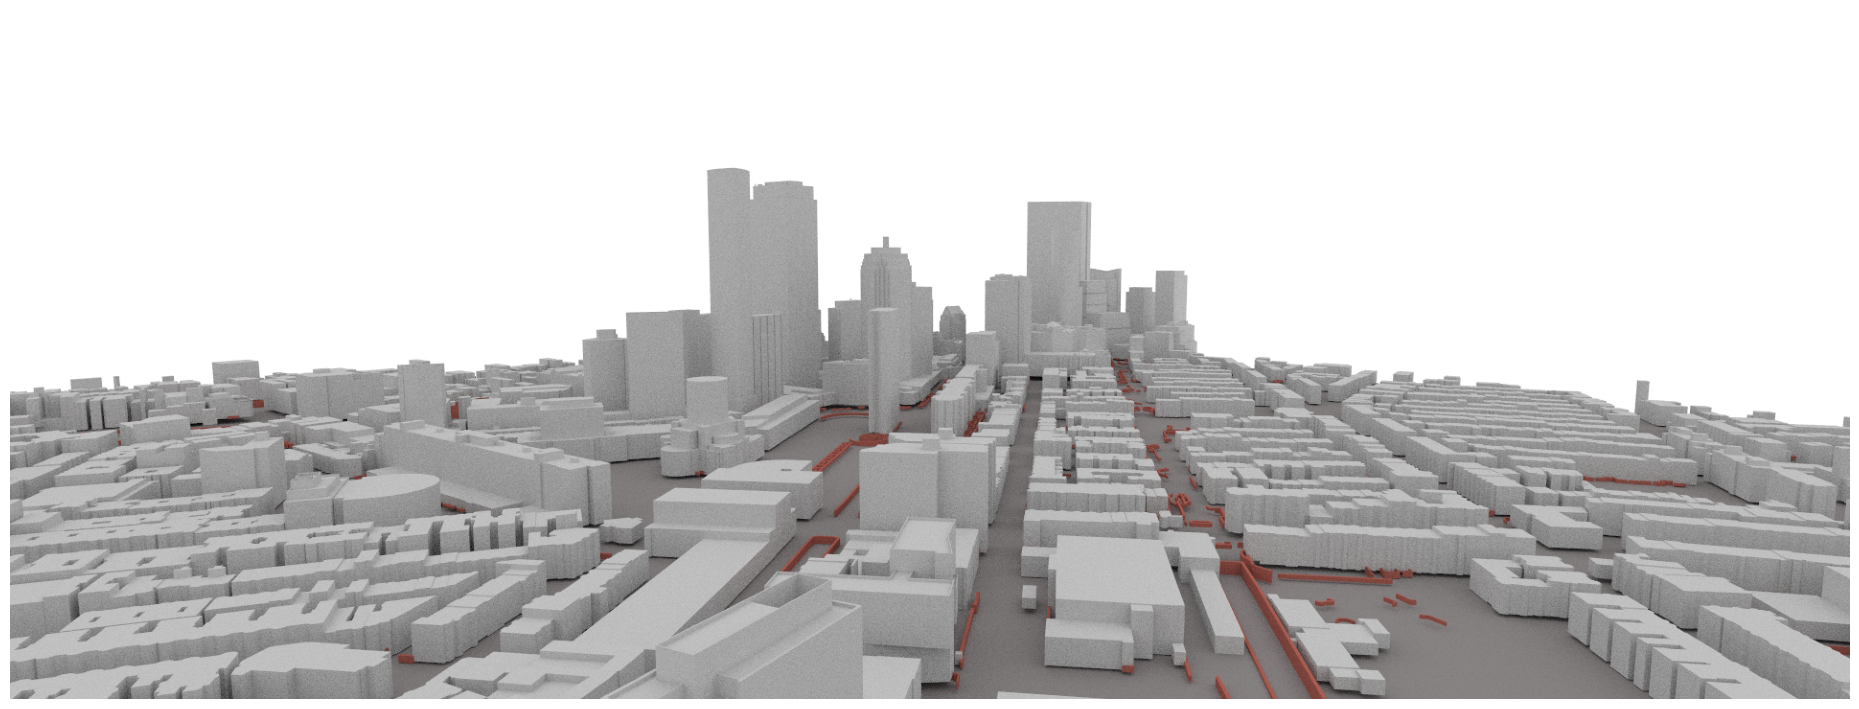
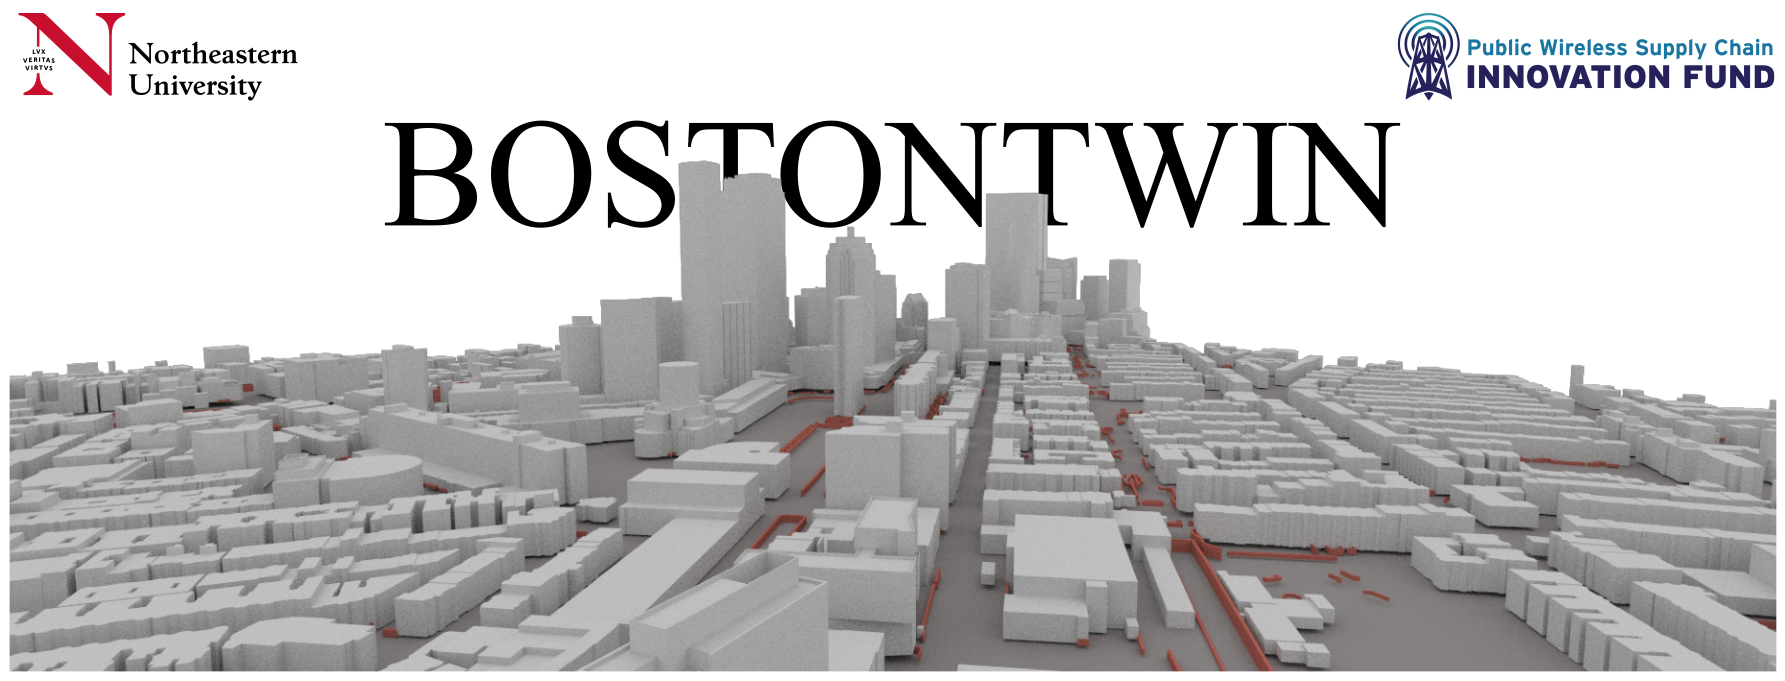
Update README

Changed region(s): [[0.2157, 0.1542, 0.8011, 0.3392], [0.7703, 0.0308, 1.0, 0.1542], [0.0, 0.0, 0.1849, 0.1542]]

diff --git a/README.md b/README.md
@@ -1,4 +1,4 @@
-![alt text](images/BOS_G_5_render.png "Boston Twin")
+![alt text](images/bostontwin.png "Boston Twin")
 
 # BostonTwin
 Repository for the BostonTwin dataset API.
@@ -8,6 +8,7 @@ The basic requirements for the BostonTwin API are based on those of [Sionna]<htt
 1. `python>=3.8`
 2. `geopandas`
 3. `open3d`
+4. `contextily`
 and the corresponding dependencies.
 
 We provide a requirement file for pip (`requirements.txt`) and conda (`environment.yaml`) to create a Python virtual environment with all the dependencies.
@@ -15,9 +16,10 @@ Additionally, we provide a DOCKERFILE to generate a container with all the requi
 
 ## Quickstart
 1. Clone this repo
-2. Install the requirements. We suggest using 
+2. Install the requirements. We suggest using the provided DOCKERFILE.
 3. Download the BostonTwin dataset from <http://hdl.handle.net/2047/D20623157> into the `bostontwin` folder.
-4. Run the `bostontwin_demo` Jupyter Notebook to see how to use BostonTwin, the Digital Twin of Boston!
+4. Run the [bostontwin_demo](<https://github.com/wineslab/boston_twin/blob/main/bostontwin_demo.ipynb>) Jupyter Notebook to see how to use BostonTwin, the Digital Twin of Boston!
+5. Refer to the [documentation](<>) for additional information.
 
 ## Workflow
 
@@ -33,12 +35,43 @@ The API offers geo-referencing tools to interact with and manipulate the digital
 ## Data
 ### 3D Boston Model
 ![alt text](images/LOD_img.png "LOD")
-The 3D models of BostonTwin are derived from [1] and can be downloaded from <http://hdl.handle.net/2047/D20623157>.
-The 3D information for each model is encoded in a PLY file in the `meshes` folder.
-The 2D footprint and other information are also available in the GeoJSON of the corresponding tile.
-For instance, each model has a level of detail (LOD) of the 3D model, encoded according to the [CitySchema documentation](<https://www.cityschema.org/data_dictionary/index.htm#LOD>).
-In the above figure, we report a visualization of the LOD of the current models for the central area of Boston.
+The 3D models of BostonTwin are derived from [1] and can be downloaded from <http://hdl.handle.net/2047/D20623157>. The 3D information for each model is encoded in a PLY file in the `meshes` folder. The 2D footprint and other information are also available in the GeoJSON of the corresponding tile. For instance, each model has a level of detail (LOD) of the 3D model, encoded according to the [CitySchema documentation](<https://www.cityschema.org/data_dictionary/index.htm#LOD>). In the above figure, we report a visualization of the LOD of the current models for the central area of Boston.
+
+### Antenna Location
+<p float="left">
+  <img src="images/BOS_G_5_antennas_geo.png" width="300" />
+  <img src="images/BOS_G_5_antennas_local.png" width="300" /> 
+</p>
+
+Besides the 3D models of the buildings in Boston, BostonTwin contains the geo-referenced location of the real wireless antenna throughout the city, according to [2]. That can be used to study, analyze and design optimization problems and solutions in a real world setting, having realistic data to start from.
+
+## Citation
+If you use BostonTwin in a scientific work, please cite it as:
+```
+Paolo Testolina, Michele Polese, Pedram Johari, and Tommaso Melodia. 2024. Boston Twin: the Boston Digital Twin for Ray-Tracing in 6G Networks. In Proceedings of the 15th ACM Multimedia Systems Conference (MMSys '24). Association for Computing Machinery, New York, NY, USA, 441–447. https://doi.org/10.1145/3625468.3652190
+```
+BibTeX:
+```bibtex
+@inproceedings{10.1145/3625468.3652190,
+author = {Testolina, Paolo and Polese, Michele and Johari, Pedram and Melodia, Tommaso},
+title = {Boston Twin: the Boston Digital Twin for Ray-Tracing in 6G Networks},
+year = {2024},
+isbn = {9798400704123},
+publisher = {Association for Computing Machinery},
+address = {New York, NY, USA},
+url = {https://doi.org/10.1145/3625468.3652190},
+doi = {10.1145/3625468.3652190},
+pages = {441–447},
+numpages = {7},
+keywords = {Digital Twin, Ray Tracing, Wireless Networks},
+location = {<conf-loc>, <city>Bari</city>, <country>Italy</country>, </conf-loc>},
+series = {MMSys '24}
+}
+```
 
 ## Credits
 [1] The 3D models of the structures in Boston are published by the Boston Planning and Development Agency (BPDA) [<https://www.bostonplans.org/3d-data-maps/3d-smart-model>].\
 [2] The antenna location was obtained from the City of Boston's Open Data hub [<https://data.boston.gov/>].
+
+## Acknowledgments
+This work was partially supported by the National Telecommunications and Information Administration (NTIA)’s Public Wireless Supply Chain Innovation Fund (PWSCIF) under Award No. 25-60-IF011.
